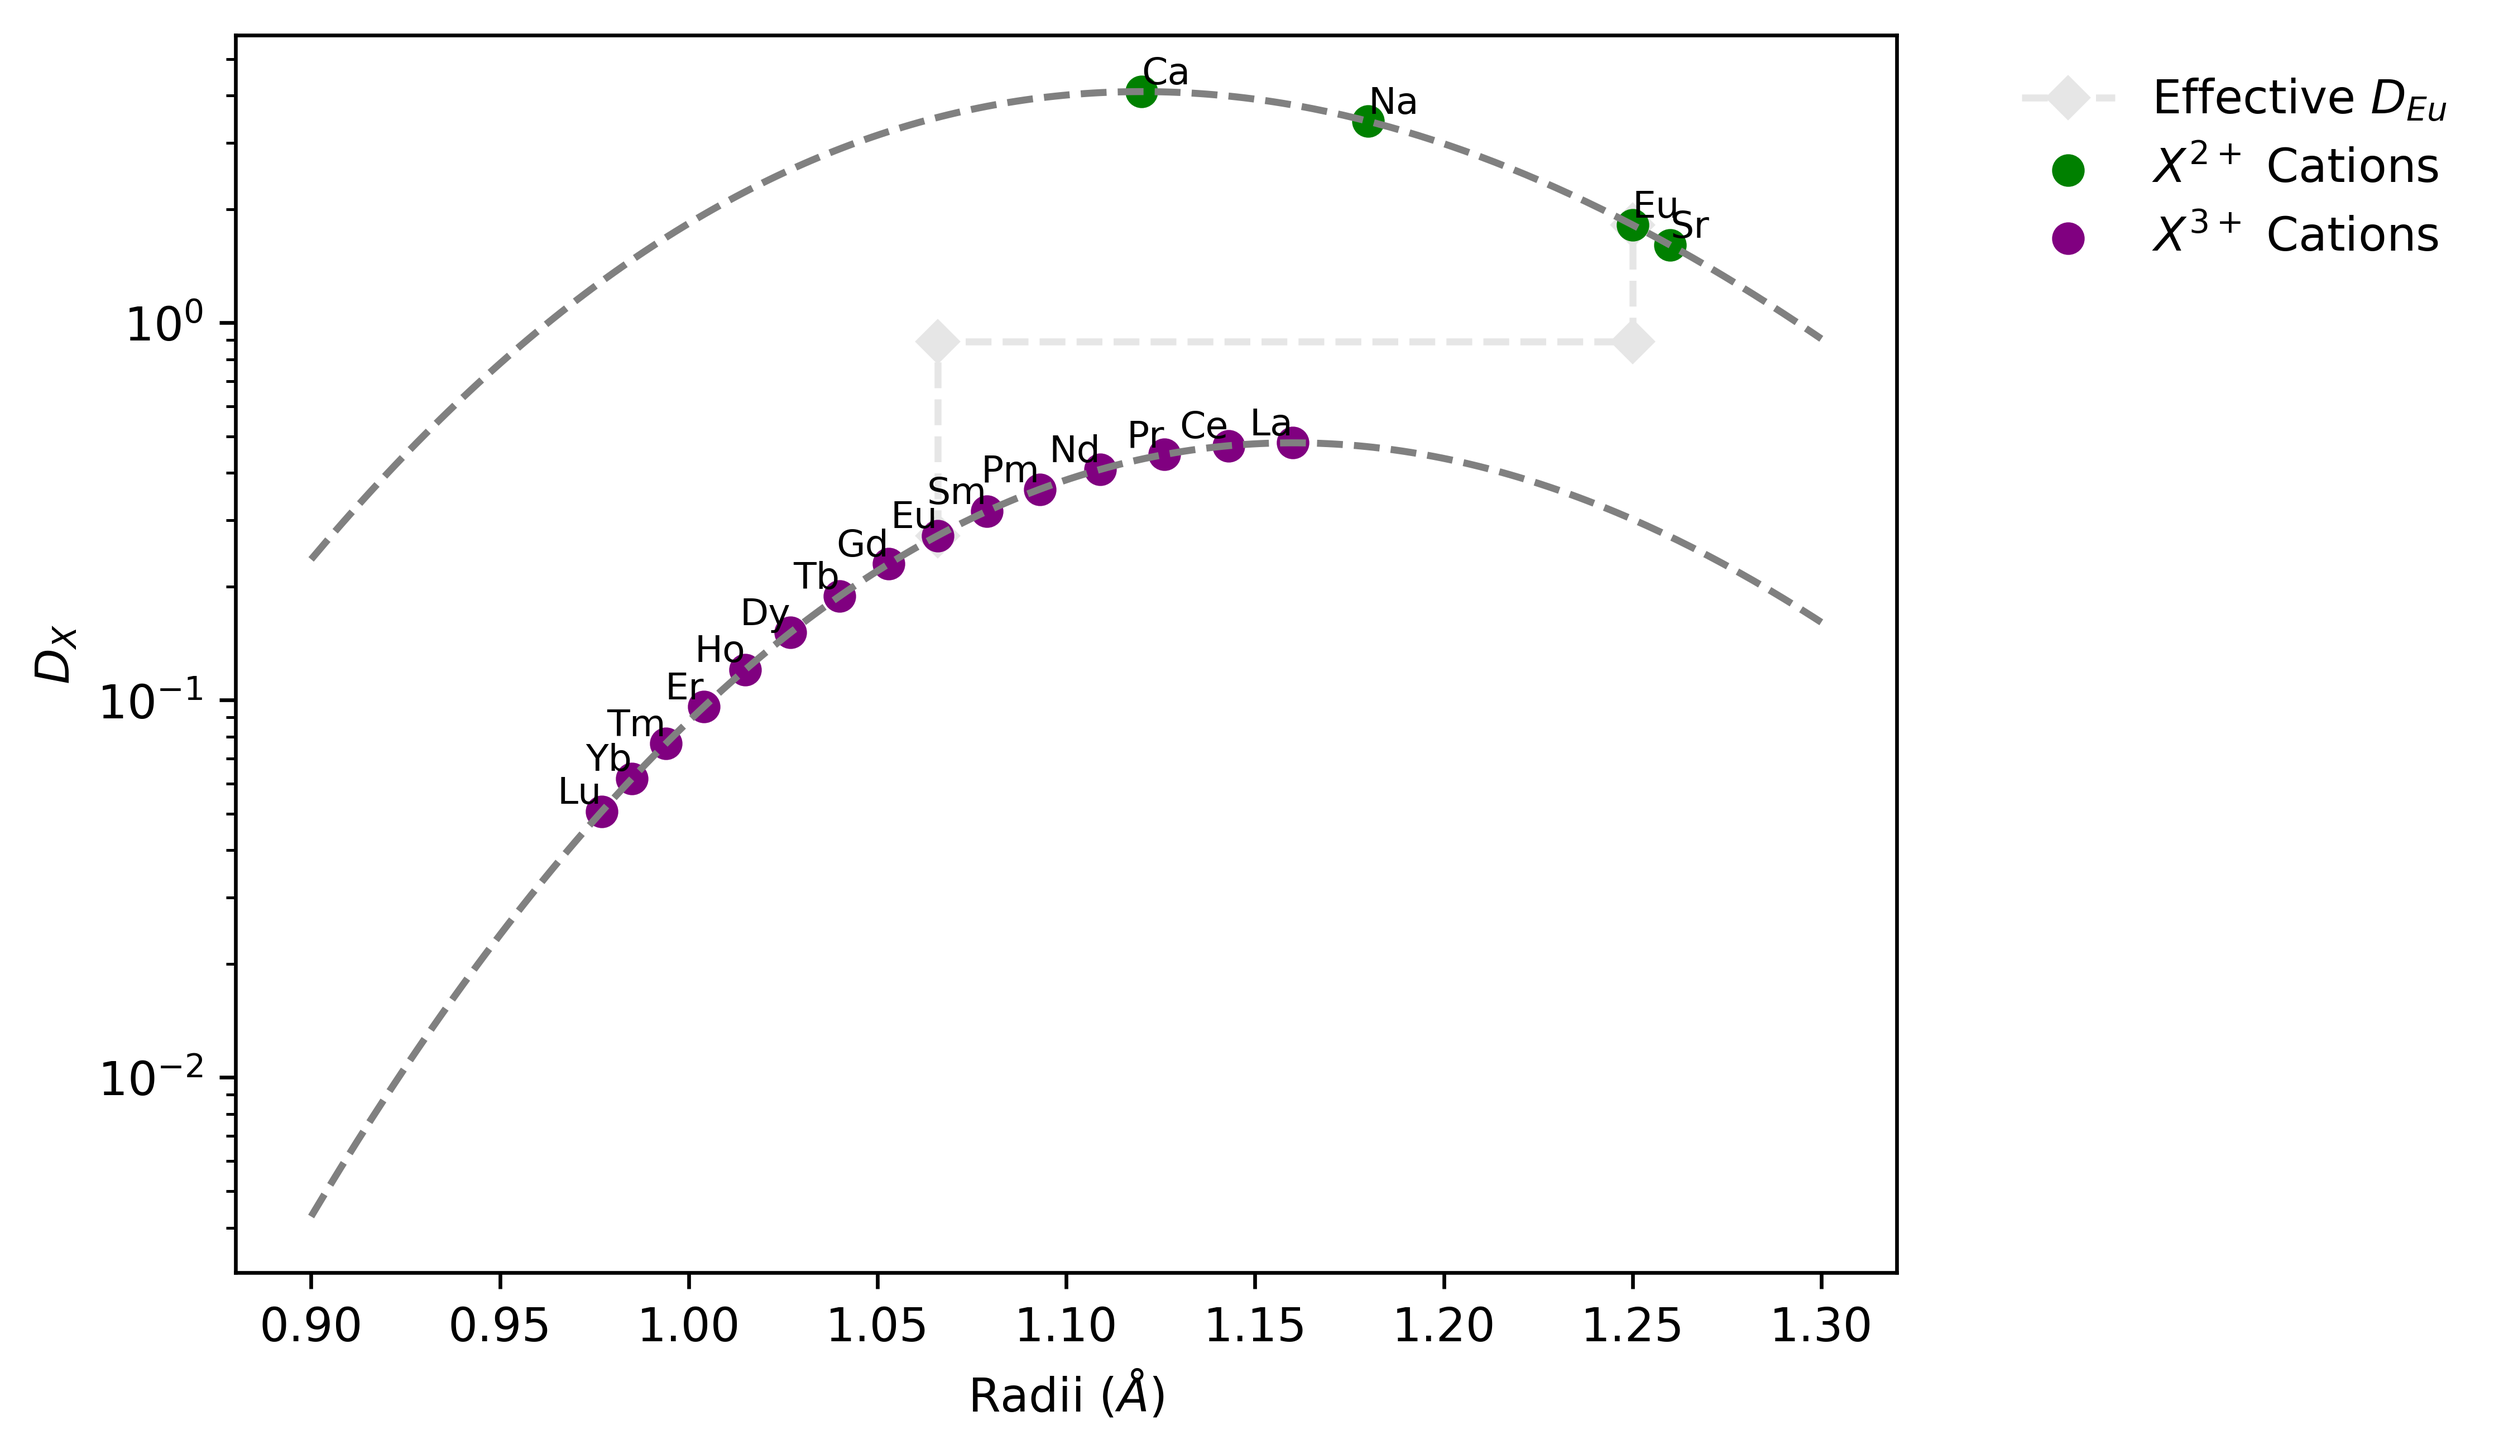
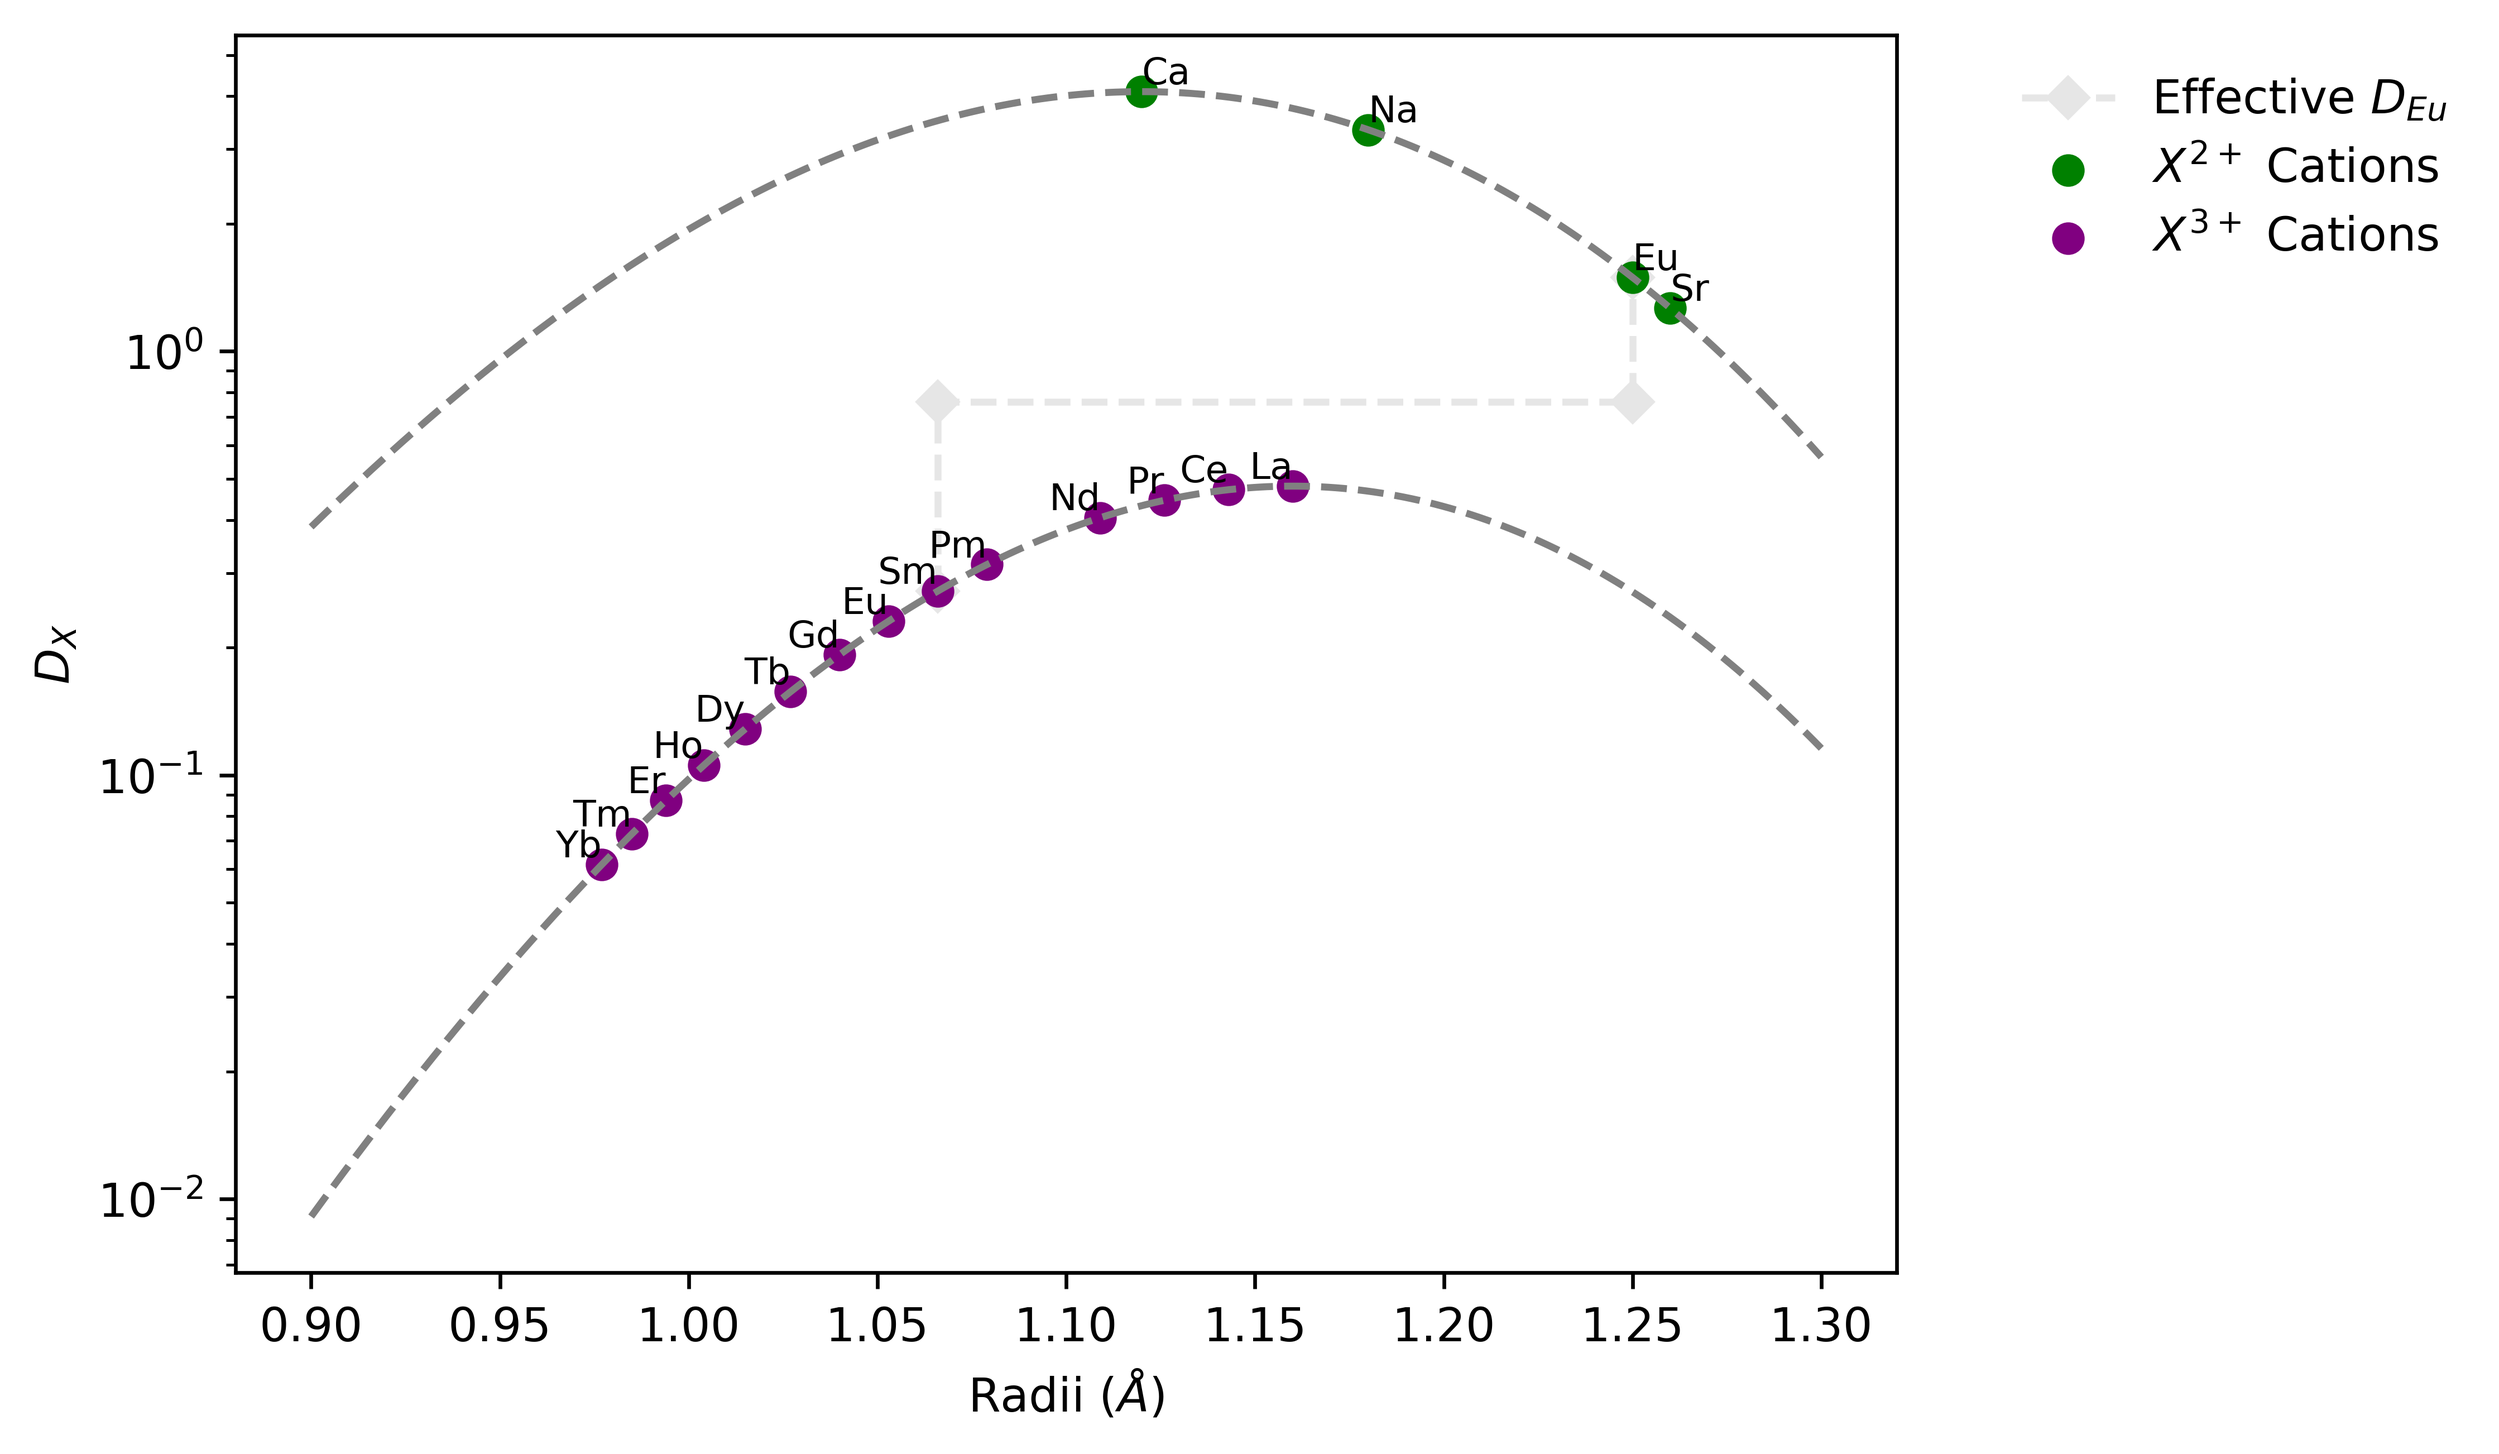
Update mineral.latttice

diff --git a/docs/examples/mineral/lattice.py b/docs/examples/mineral/lattice.py
@@ -12,6 +12,7 @@ E_2 = 120 * 10 ** 9  # Youngs modulus for 2+ site, Pa
 E_3 = 135 * 10 ** 9  # Youngs modulus for 3+ site, Pa
 rCa = get_ionic_radii("Ca", charge=2, coordination=8)
 rLa = get_ionic_radii("La", charge=3, coordination=8)
+r02, r03 = 1.196, 1.294  # fictive ideal cation radii for these sites
 # %% 2+ cations
 fontsize = 8
 fig, ax = plt.subplots(1)
@@ -23,11 +24,13 @@ site2radii = [
     *[get_ionic_radii(el, charge=2, coordination=8) for el in ["Ca", "Eu", "Sr"]],
 ]
 # plot the relative paritioning curve for cations in the 2+ site
-site2Ds = D_Ca * np.array([strain_coefficient(rCa, rx, E_2, T=Tk) for rx in site2radii])
+site2Ds = D_Ca * np.array(
+    [strain_coefficient(rCa, rx, r0=r02, E=E_2, T=Tk) for rx in site2radii]
+)
 ax.scatter(site2radii, site2Ds, color="g", label="$X^{2+}$ Cations")
 # create an index of radii, and plot the relative paritioning curve for the site
 xs = np.linspace(0.9, 1.3, 200)
-curve2Ds = D_Ca * strain_coefficient(rCa, xs, E_2, T=Tk)
+curve2Ds = D_Ca * strain_coefficient(rCa, xs, r0=r02, E=E_2, T=Tk)
 ax.plot(xs, curve2Ds, color="0.5", ls="--")
 # add the element labels next to the points
 for l, r, d in zip(site2labels, site2radii, site2Ds):
@@ -36,22 +39,24 @@ for l, r, d in zip(site2labels, site2radii, site2Ds):
     )
 # %% Calculate D(La)
 D_La = (D_Ca ** 2 / D_Na) * np.exp((529 / Tk) - 3.705)
+D_La  # 0.48085
 # %% 3+ cations
 site3labels = REE()
 # get the Shannon ionic radii for the elements in the 3+ site
-site3radii = [get_ionic_radii(x, charge=3, coordination=8) for x in REE()]
-site3Ds = D_La * np.array([strain_coefficient(rLa, rx, E_3, T=Tk) for rx in site3radii])
+site3radii = [get_ionic_radii(x, charge=3, coordination=8) for x in REE(dropPm=True)]
+site3Ds = D_La * np.array(
+    [strain_coefficient(rLa, rx, r0=r03, E=E_3, T=Tk) for rx in site3radii]
+)
 # plot the relative paritioning curve for cations in the 3+ site
 ax.scatter(site3radii, site3Ds, color="purple", label="$X^{3+}$ Cations")
 # plot the relative paritioning curve for the site
-curve3Ds = D_La * strain_coefficient(rLa, xs, E_3, T=Tk)
+curve3Ds = D_La * strain_coefficient(rLa, xs, r0=r03, E=E_3, T=Tk)
 ax.plot(xs, curve3Ds, color="0.5", ls="--")
 # add the element labels next to the points
 for l, r, d in zip(site3labels, site3radii, site3Ds):
     ax.annotate(
         l, xy=(r, d), xycoords="data", ha="right", va="bottom", fontsize=fontsize
     )
-
 ax.set_yscale("log")
 ax.set_ylabel("$D_X$")
 ax.set_xlabel("Radii ($\AA$)")
@@ -59,11 +64,11 @@ ax.set_xlabel("Radii ($\AA$)")
 X_Eu3 = 0.6
 # calculate D_Eu3 relative to D_La
 D_Eu3 = D_La * strain_coefficient(
-    rLa, get_ionic_radii("Eu", charge=3, coordination=8), E_3, T=Tk
+    rLa, get_ionic_radii("Eu", charge=3, coordination=8), r0=r03, E=E_3, T=Tk
 )
 # calculate D_Eu2 relative to D_Ca
 D_Eu2 = D_Ca * strain_coefficient(
-    rCa, get_ionic_radii("Eu", charge=2, coordination=8), E_2, T=Tk
+    rCa, get_ionic_radii("Eu", charge=2, coordination=8), r0=r02, E=E_2, T=Tk
 )
 # calculate the effective parition coefficient
 D_Eu = (1 - X_Eu3) * D_Eu2 + X_Eu3 * D_Eu3

diff --git a/pyrolite/mineral/lattice.py b/pyrolite/mineral/lattice.py
@@ -32,7 +32,7 @@ from ..util.meta import sphinx_doi_link, update_docstring_references
 
 
 @update_docstring_references
-def strain_coefficient(r0, rx, E=None, T=298.15, z=None, **kwargs):
+def strain_coefficient(ri, rx, r0=None, E=None, T=298.15, z=None, **kwargs):
     r"""
     Calculate the lattice strain associated with an ionic substitution [#ref_1]_ [#ref_2]_.
 
@@ -93,11 +93,15 @@ def strain_coefficient(r0, rx, E=None, T=298.15, z=None, **kwargs):
         The model assumes that the crystal is elastically isotropic.
 
     """
-    E = E or youngs_modulus_approximation(z, r0) # use E if defined, else try to calc
     n = 6.023 * 10 ** 23
-    r0, rx = r0 / 10 ** 10, rx / 10 ** 10  # convert to meters
-    coeff = 4 * np.pi * E
-    rterm = (r0 / 2) * (rx - r0) ** 2 - (1 / 3) * (rx - r0) ** 3
+    if r0 is None:
+        logger.warn("Use fictive ideal cation radii where possible.")
+        r0 = ri
+    ri, rx, r0 = ri / 10 ** 10, rx / 10 ** 10, r0 / 10 ** 10  # convert to meters
+    E = E or youngs_modulus_approximation(z, r0)  # use E if defined, else try to calc
+    coeff = 4.0 * np.pi * E
+
+    rterm = (r0 / 2.0) * (ri - rx) ** 2 - (1.0 / 3) * (ri - rx) ** 3
     return np.exp(coeff * rterm * (-n / (8.314 * T)))
 
 
@@ -164,6 +168,7 @@ def youngs_modulus_approximation(z, r):
     d = r + 1.38
     E = 1.5 * 750 * (z / d ** 3) * 10 ** 9
     return E
+
 
 __doc__ = __doc__.format(
     brice1975=sphinx_doi_link("10.1016/0022-0248(75)90241-9"),

diff --git a/docs/source/usage/eg/mineral/lattice.rst b/docs/source/usage/eg/mineral/lattice.rst
@@ -15,7 +15,7 @@ silicate and oxide cationic sites enable relatively simple calculation of ionic
 partitioning in common rock forming minerals.
 
 This example below uses previously characterised calcium and sodium partition
-coefficients between plagioclase (:math:`CaAl_2Si_2O_8 - NaAlSi3O8`) and silicate melt
+coefficients between plagioclase (:math:`CaAl_2Si_2O_8 - NaAlSi_3O8`) and silicate melt
 to estimate partitioning for other cations based on their ionic radii.
 
 A model parameterised using sodium and calcium partition coefficients [#ref_2]_ is then
